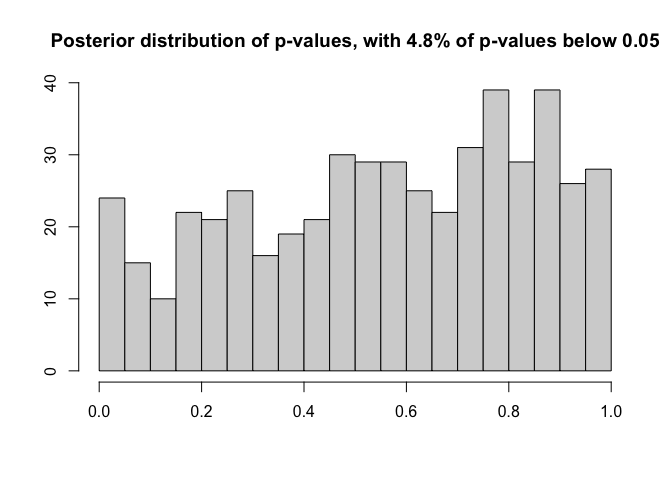
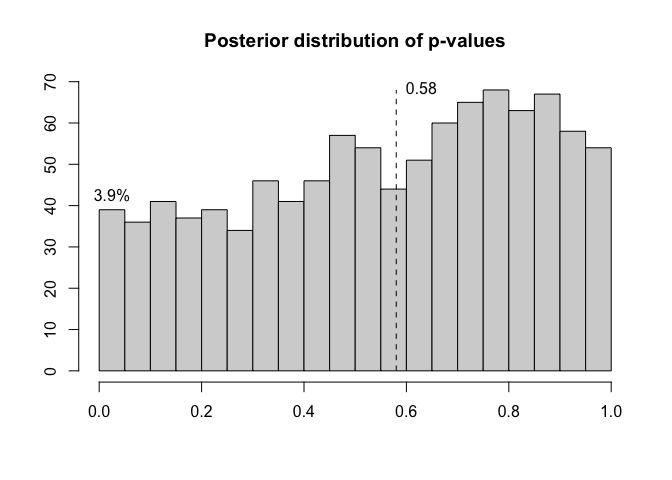
draft

diff --git a/draft/main.tex b/draft/main.tex
@@ -34,7 +34,7 @@
 
 
 \vspace*{2cm}
-Xavier Didelot$^{1,2,*}$, Jake Carson$^{1,3}$, Paolo Ribeca$^{4,5}$, ...
+Xavier Didelot$^{1,2,*}$, Jake Carson$^{1,3}$, Paolo Ribeca$^{4,5}$
 
 \vspace*{2cm}
 $^1$ School of Life Sciences, University of Warwick, United Kingdom\\\\
@@ -42,7 +42,7 @@ $^2$ Department of Statistics, University of Warwick, United Kingdom\\\\
 $^3$ Mathematics Institute, University of Warwick, United Kingdom\\\\
 $^4$ UK Health Security Agency, London, United Kingdom\\\\
 $^5$ Biomathematics and Statistics Scotland, The James Hutton Institute, Edinburgh, United Kingdom\\\\
-$^*$ Corresponding author. Tel: 0044 (0)2476 572827. Email: \verb+xavier.didelot@gmail.com+
+$^*$ Corresponding author. Tel: 0044 (0)2476 572827. Email: \verb+xavier.didelot@warwick.ac.uk+
 
 %Journal target:  Bioinformatics? PLoS CB?
 
@@ -103,38 +103,6 @@ We also demonstrate the usefulness of this approach in practice on real datasets
 
 \section*{RESULTS}
 
-\subsection*{General approach}
-
-\begin{figure}[t!]
-\begin{center}
-A\hspace*{6cm}B\hspace*{6cm}~\\
-\includegraphics[width=10cm]{fig1.png}
-\end{center}
-\caption{(A) General approach for validation of a dated phylogeny built by dating the nodes of a standard phylogeny. (B) General approach for validation of a dated phylogeny built directly from a sequence alignment.
-\label{fig:approach}}
-\end{figure}
-
-We want to validate a dated phylogeny $\mathcal{D}$, previously constructed using
-any method. We propose to do so by comparing the dated phylogeny $\mathcal{D}$ with 
-an undated phylogeny $\mathcal{L}$. 
-If the method used to construct $\mathcal{D}$ involved dating the nodes of an undated
-phylogeny, for example TreeTime \citep{Sagulenko2018} or treedater \citep{Volz2017}, 
-then this is readily available for validation and we therefore focus on this case in this article
-(Figure \ref{fig:approach}A). However, the validation methodology
-below can also be applied to methods that build a dated phylogeny directly from the alignment
-such as BEAST \citep{Suchard2018},
-simply by constructing a separate undated phylogeny from the same alignment using
-for example PhyML \citep{Guindon2010} or RAxML \citep{Stamatakis2015} 
-(Figure \ref{fig:approach}B). 
-\footnote{Not clear what to do if the dated phylogeny and undated phylogeny don't have the same topology.}
-For each branch in the dated phylogeny $\mathcal{D}$ we can
-consider its inferred length, the number of substitutions happening on that branch in the standard phylogeny
-$\mathcal{L}$, and the model and parameters used when building the dated phylogeny $\mathcal{D}$,
-in order to compute a residual for that branch (see Methods). If the inference is valid,
-these residuals will follow their theoretical distribution
-\citep{coxGeneralDefinitionResiduals1968,dunnRandomizedQuantileResiduals1996}. 
-We use this property as a way to test the validity of the dated phylogeny $\mathcal{D}$.
-
 \subsection*{Motivating example}
 
 \begin{figure}[p!]
@@ -168,12 +136,12 @@ The clock rate was estimated to be $\mu=10.5$ [9.4;11.6] and the root date
 However, when looking at a single sample from the posterior,
 the residuals for the branches were not distributed as Normal(0,1) (Figure \ref{fig:example}C)
 and a QQ plot revealed significant deviation (Figure \ref{fig:example}D). 
-The Anderson-Darling test rejects the hypothesis of standard normality of the residuals ($p=3.03\times10^{-6}$).
+The Anderson-Darling test rejects the hypothesis of standard normality of the residuals ($p<10^{-5}$).
 The same residual analysis performed on multiple samples from the posterior showed that they all
-had p-values below 0.05.
-We repeated the same analysis incorrectly assuming a strict clock model using 
-LSD \citep{To2016}, node.dating \citep{Jones2017}, treedater \citep{Volz2017} and TreeTime \citep{Sagulenko2018},
-all of which led to similar results (Figure \ref{fig:exampleS2}). 
+had p-values below 0.05, with a median p-value $p<10^{-5}$.
+%We repeated the same analysis incorrectly assuming a strict clock model using 
+%LSD \citep{To2016}, node.dating \citep{Jones2017}, treedater \citep{Volz2017} and TreeTime \citep{Sagulenko2018},
+%all of which led to similar results (Figure \ref{fig:exampleS2}). 
 
 We applied BactDating again, but this time used the correct additive relaxed clock model (Equation \ref{eq:arc}). 
 The clock rate estimated to be $\mu=11.3$ [8.8;14.1], the root date was 2008.9 [2007.7;2009.8]
@@ -183,17 +151,57 @@ looked approximately distributed as they should be both when plotting them again
 their theoretical distribution (Figure \ref{fig:example}E) and when constructing a QQ plot (Figure \ref{fig:example}F).
 The Anderson-Darling test did not reject the hypothesis of standard normality of the residuals ($p=0.465$).
 Repeating this residual analysis on multiple samples from the posterior showed that only 4.5\% of 
-them had p-values below 0.05.
+them had p-values below 0.05, and the median p-value was $p=0.53$.
+
+BactDating includes a procedure to perform model comparison by computing
+the deviance information criterion (DIC) of each model \citep{Spiegelhalter2002}.
+Here the strict clock model had a DIC of 1072.41, whereas the relaxed clock model
+had a DIC of 759.86, indicating strong support for the latter. 
+This model comparison approach agrees well with the model validation approach above,
+and both are correct since the data was generated here using the relaxed clock model.
+However, model comparison
+will not be useful when our aim is more generally to check the validity
+of a single model, without comparison to other models.
+
+\subsection*{Benchmarking}
 
 \subsection*{Confounding effect of population structure}
 
-\subsection*{Benchmarking}
+\subsection*{Validation of maximum likelihood dated phylogenies}
 
 \subsection*{Real data examples}
 
 \section*{DISCUSSION}
 
-TODO
+\begin{figure}[p!]
+\begin{center}
+A\hspace*{6cm}B\hspace*{6cm}~\\
+\includegraphics[width=10cm]{fig1.png}
+\end{center}
+\caption{(A) General approach for validation of a dated phylogeny built by dating the nodes of a standard phylogeny. (B) General approach for validation of a dated phylogeny built directly from a sequence alignment.
+\label{fig:approach}}
+\end{figure}
+
+We want to validate a dated phylogeny $\mathcal{D}$, previously constructed using
+any method. We propose to do so by comparing the dated phylogeny $\mathcal{D}$ with 
+an undated phylogeny $\mathcal{L}$. 
+If the method used to construct $\mathcal{D}$ involved dating the nodes of an undated
+phylogeny, for example TreeTime \citep{Sagulenko2018} or treedater \citep{Volz2017}, 
+then this is readily available for validation and we therefore focus on this case in this article
+(Figure \ref{fig:approach}A). However, the validation methodology
+below can also be applied to methods that build a dated phylogeny directly from the alignment
+such as BEAST \citep{Suchard2018},
+simply by constructing a separate undated phylogeny from the same alignment using
+for example PhyML \citep{Guindon2010} or RAxML \citep{Stamatakis2015} 
+(Figure \ref{fig:approach}B). 
+\footnote{Not clear what to do if the dated phylogeny and undated phylogeny don't have the same topology.}
+For each branch in the dated phylogeny $\mathcal{D}$ we can
+consider its inferred length, the number of substitutions happening on that branch in the standard phylogeny
+$\mathcal{L}$, and the model and parameters used when building the dated phylogeny $\mathcal{D}$,
+in order to compute a residual for that branch (see Methods). If the inference is valid,
+these residuals will follow their theoretical distribution
+\citep{coxGeneralDefinitionResiduals1968,dunnRandomizedQuantileResiduals1996}. 
+We use this property as a way to test the validity of the dated phylogeny $\mathcal{D}$.
 
 \section*{MATERIALS AND METHODS}
 
@@ -404,14 +412,13 @@ tests between them, maybe using harmonic mean
 p-value \citep{wilsonHarmonicMeanPvalue2019}.
  Figure \ref{fig:flowchart} shows how the different methods relate.
 
-\begin{figure}[t!]
+\begin{figure}[p!]
 \begin{center}
 \includegraphics[width=10cm]{flowchart.png}
 \end{center}
 \caption{Flowchart.
 \label{fig:flowchart}}
 \end{figure}
-
 
 \subsection*{Data simulation}
 
@@ -466,15 +473,13 @@ We acknowledge funding from the National Institute for Health Research (NIHR) He
 \label{fig:exampleS1}}
 \end{figure}
 
-\begin{figure}[t!]
-\begin{center}
-\includegraphics[width=15cm]{exampleS2.pdf}
-\end{center}
-\caption{Residuals after application on the motivating example of a strict clock model using LSD (A), node.dater (B), treedater (C) and TreeTime (D).
-\label{fig:exampleS2}}
-\end{figure}
-
-
+%\begin{figure}[t!]
+%\begin{center}
+%\includegraphics[width=15cm]{exampleS2.pdf}
+%\end{center}
+%\caption{Residuals after application on the motivating example of a strict clock model using LSD (A), node.dater (B), treedater (C) and TreeTime (D).
+%\label{fig:exampleS2}}
+%\end{figure}
 
 \end{document}
 
